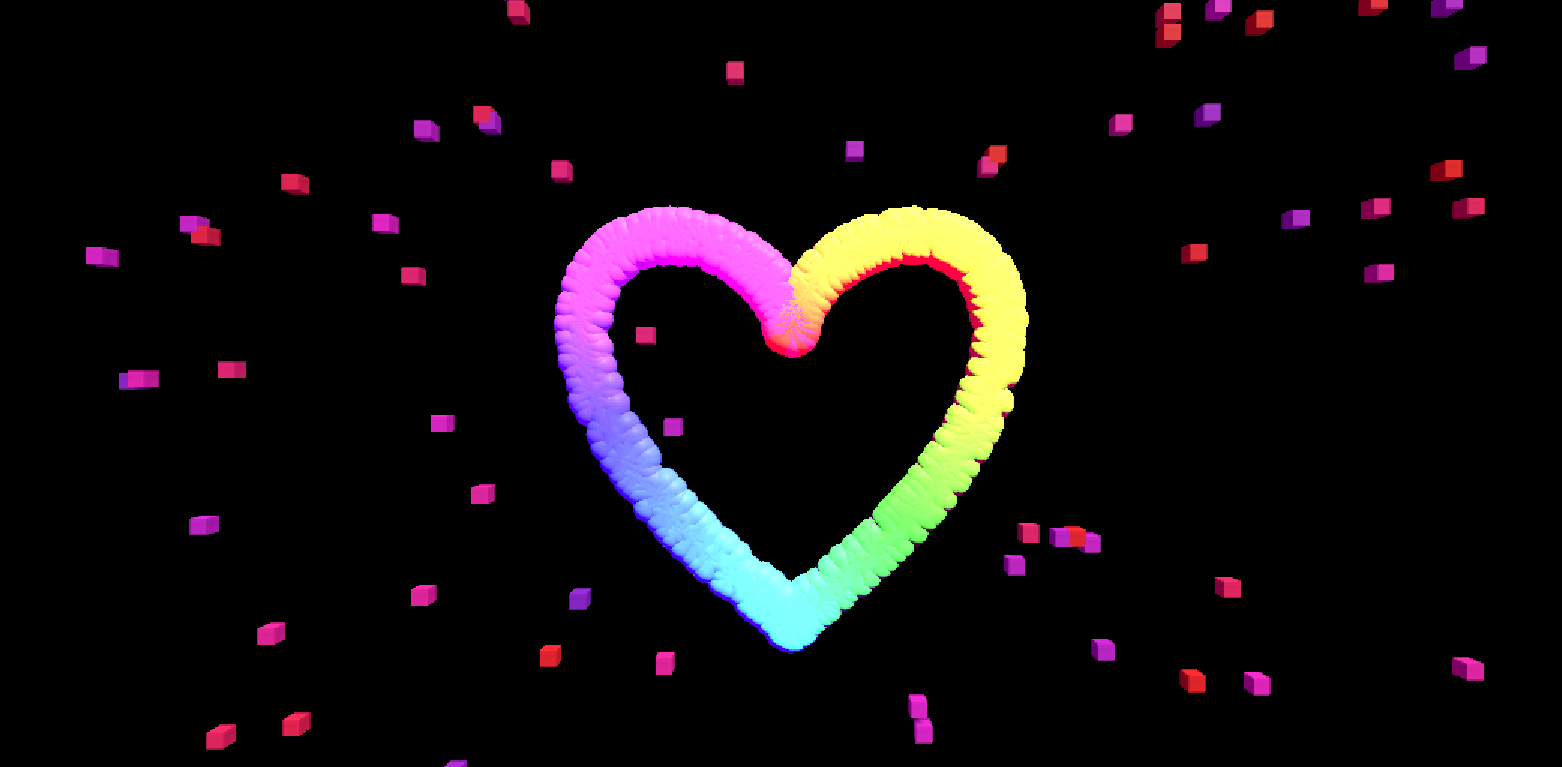
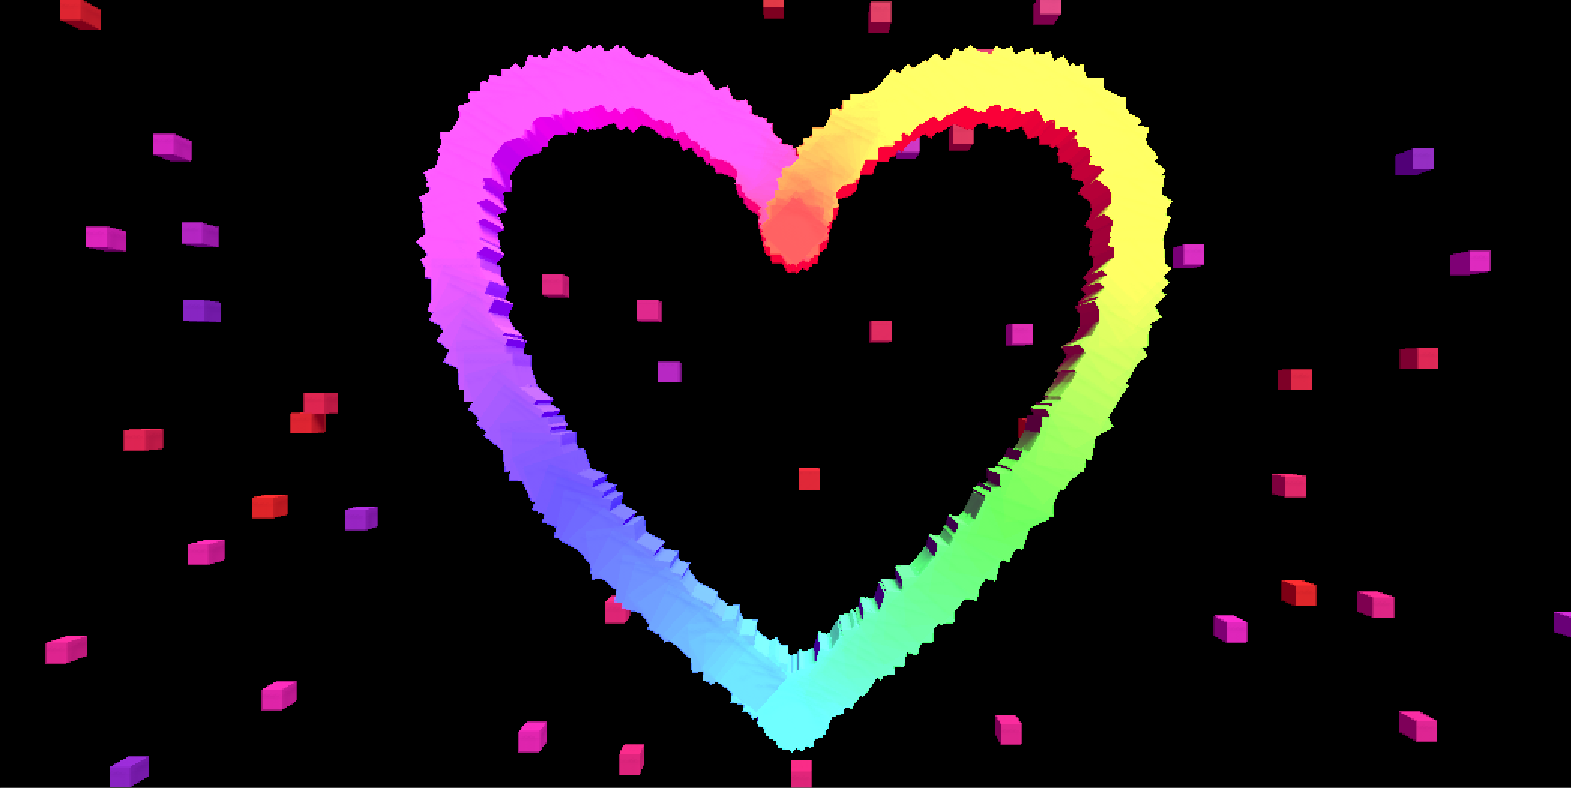
More Lerp.cs Modifications

diff --git a/Assignment1/Assets/Lerp.cs b/Assignment1/Assets/Lerp.cs
@@ -43,7 +43,12 @@ public class Lerp : MonoBehaviour
         for (int i =0; i < numSphere; i++){
             float r = 1.5f; // Modified radius of the capsules
             
-            capsules[i] = GameObject.CreatePrimitive(PrimitiveType.Capsule); 
+            if(i % 2 == 0) {
+                capsules[i] = GameObject.CreatePrimitive(PrimitiveType.Sphere); 
+            } else {
+                capsules[i] = GameObject.CreatePrimitive(PrimitiveType.Cube); 
+            }
+
 
             // Position
             initPos[i] = startPosition[i];
@@ -68,7 +73,7 @@ public class Lerp : MonoBehaviour
             
             // lerpFraction variable defines the point between startPosition and endPosition (0~1)
             // let it oscillate over time using sin function
-            lerpFraction = Mathf.Sin(time) * .60f + 0.5f; //Modified the oscillation
+            lerpFraction = Mathf.Sin(time) * .60f + 1f; //Modified the oscillation
 
             // Lerp logic. Update position       
             t = i* 2 * Mathf.PI / numSphere;
